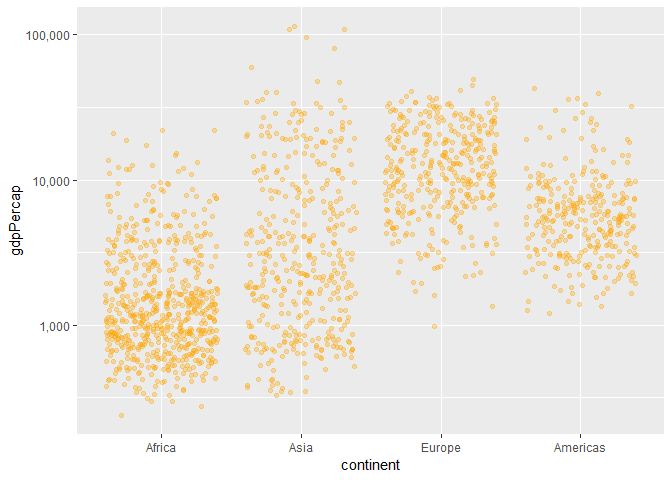
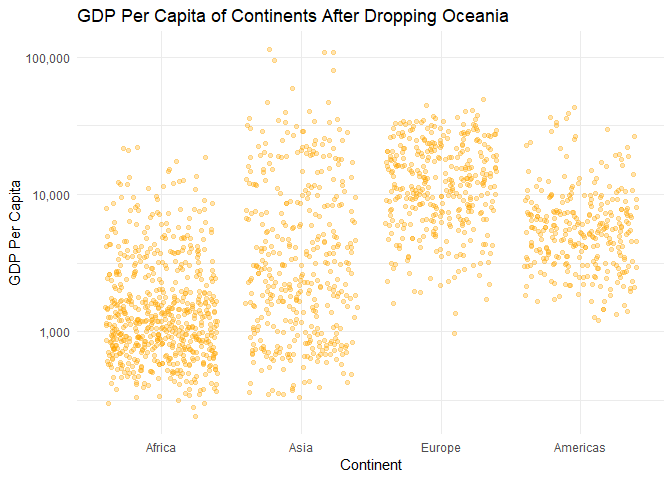
Starting part 2

diff --git a/hw05-aidanh14.md b/hw05-aidanh14.md
@@ -5,6 +5,9 @@ October 17, 2018
 
 -   [Overview](#overview)
 -   [Part 1: Factor Management](#part-1-factor-management)
+    -   [Elaborating Gapminder Dataset](#elaborating-gapminder-dataset)
+    -   [Elaborating Singer Dataset](#elaborating-singer-dataset)
+-   [Part 2: File I/O](#part-2-file-io)
 
 Overview
 ========
@@ -32,6 +35,9 @@ suppressPackageStartupMessages(library("tidyverse"))
 suppressPackageStartupMessages(library("singer"))
 suppressPackageStartupMessages(library("scales"))
 ```
+
+Elaborating Gapminder Dataset
+-----------------------------
 
 Before manipulating the levels of gapminder, let's first check the columns are actually factors and then look at some numbers so we can do a before/after comparison.
 
@@ -103,21 +109,128 @@ no_Oceania %>%
   mutate(continent = fct_reorder(continent, gdpPercap, .fun = min)) %>%
   ggplot(aes(continent, gdpPercap)) +
   geom_jitter(colour = "orange", alpha = 0.3) +
-  scale_y_log10(labels=comma_format())
+  scale_y_log10(labels=comma_format()) + 
+  labs(y = "GDP Per Capita", x = "Continent", title = "GDP Per Capita of Continents After Dropping Oceania") +
+  theme(plot.title = element_text(hjust = 0.5)) +
+  theme_minimal()
 ```
 
 ![](hw05-aidanh14_files/figure-markdown_github/Oceania%20dropped-1.png)
 
 Clearly, the GDP per Capita no longer plots Oceania as it has been dropped.
 
-We can try `arrange()` as well with gdpPercap, which would be the same as using `fct_reorder` with the function set as `mean`.
+We can try `arrange()` as well with gdpPercap, which would be the same as using `fct_reorder` with the default`mean` function.
 
 ``` r
 no_Oceania %>%
   arrange(gdpPercap) %>%
   ggplot(aes(continent, gdpPercap)) +
   geom_jitter(colour = "darkgreen", alpha = 0.3) +
-  scale_y_log10(labels=comma_format())
+  scale_y_log10(labels=comma_format()) + 
+  labs(y = "GDP Per Capita", x = "Continent", title = "GDP Per Capita of Continents Arranged by Mean") +
+  theme(plot.title = element_text(hjust = 0.5)) +
+  theme_minimal()
 ```
 
-![](hw05-aidanh14_files/figure-markdown_github/unnamed-chunk-1-1.png)
+![](hw05-aidanh14_files/figure-markdown_github/no%20Oceania%20plot-1.png)
+
+Elaborating Singer Dataset
+--------------------------
+
+Let's have a quick look at the structure of the `singer_locations` dataset.
+
+``` r
+head(singer_locations)
+```
+
+    ## # A tibble: 6 x 14
+    ##   track_id title song_id release artist_id artist_name  year duration
+    ##   <chr>    <chr> <chr>   <chr>   <chr>     <chr>       <int>    <dbl>
+    ## 1 TRWICRA~ The ~ SOSURT~ Even I~ ARACDPV1~ Motion Cit~  2007     170.
+    ## 2 TRXJANY~ Lone~ SODESQ~ The Du~ ARYBUAO1~ Gene Chand~  2004     107.
+    ## 3 TRIKPCA~ Here~ SOQUYQ~ Improm~ AR4111G1~ Paul Horn    1998     528.
+    ## 4 TRYEATD~ Rego~ SOEZGR~ Still ~ ARQDZP31~ Ronnie Ear~  1995     695.
+    ## 5 TRBYYXH~ Games SOPIOC~ Afro-H~ AR75GYU1~ Dorothy As~  1968     237.
+    ## 6 TRKFFKR~ More~ SOHQSP~ Six Ya~ ARCENE01~ Barleyjuice  2006     193.
+    ## # ... with 6 more variables: artist_hotttnesss <dbl>,
+    ## #   artist_familiarity <dbl>, latitude <dbl>, longitude <dbl>, name <chr>,
+    ## #   city <chr>
+
+``` r
+nrow(singer_locations)
+```
+
+    ## [1] 10100
+
+We can see that none of the columns are currently factors, so let's convert the year column into a factor before dropping any data.
+
+``` r
+# Using the base R function
+singerFactorYear1 <- singer_locations %>%
+  mutate(year = as.factor(year))
+
+# Using the forcats function
+singerFactorYear2 <- singer_locations %>%
+  mutate(year = factor(year))
+
+tibble("as.factor()" = singerFactorYear1$year,
+       "factor()" = singerFactorYear2$year) %>%
+  head() %>%
+  knitr::kable()
+```
+
+| as.factor() | factor() |
+|:------------|:---------|
+| 2007        | 2007     |
+| 2004        | 2004     |
+| 1998        | 1998     |
+| 1995        | 1995     |
+| 1968        | 1968     |
+| 2006        | 2006     |
+
+In this case, the output of the base R factor function and the forcats function are the same, but its alway's good to check in case of surprises.
+
+Now we can move onto dropping the "0" years.
+
+``` r
+singerFixedYears <- singerFactorYear1 %>%
+  filter(year != 0) %>%
+  mutate(year = fct_drop(year))
+
+nrow(singerFixedYears)
+```
+
+    ## [1] 10000
+
+``` r
+any(levels(singerFixedYears) == 0)
+```
+
+    ## [1] FALSE
+
+Remembering from before, we originally had 10100 entries in the `singer_locations` dataset, and now the number has decreased. As well, the unused level "0" has been dropped.
+
+Now, let's try rearranging `artist_name` to show which songs had the highest "hotness" score.
+
+``` r
+singer_locations %>%
+  mutate(artist_name = factor(artist_name)) %>%
+  mutate(artist_name = fct_reorder(artist_name, artist_hotttnesss, .fun = max)) %>%
+  select(artist_name, artist_hotttnesss, year) %>%
+  head() %>%
+  knitr::kable()
+```
+
+| artist\_name                   |  artist\_hotttnesss|  year|
+|:-------------------------------|-------------------:|-----:|
+| Motion City Soundtrack         |           0.6410183|  2007|
+| Gene Chandler                  |           0.3937627|  2004|
+| Paul Horn                      |           0.4306226|  1998|
+| Ronnie Earl & the Broadcasters |           0.3622792|  1995|
+| Dorothy Ashby                  |           0.4107520|  1968|
+| Barleyjuice                    |           0.3762635|  2006|
+
+Good job, Motion City Sountrack.
+
+Part 2: File I/O
+================
